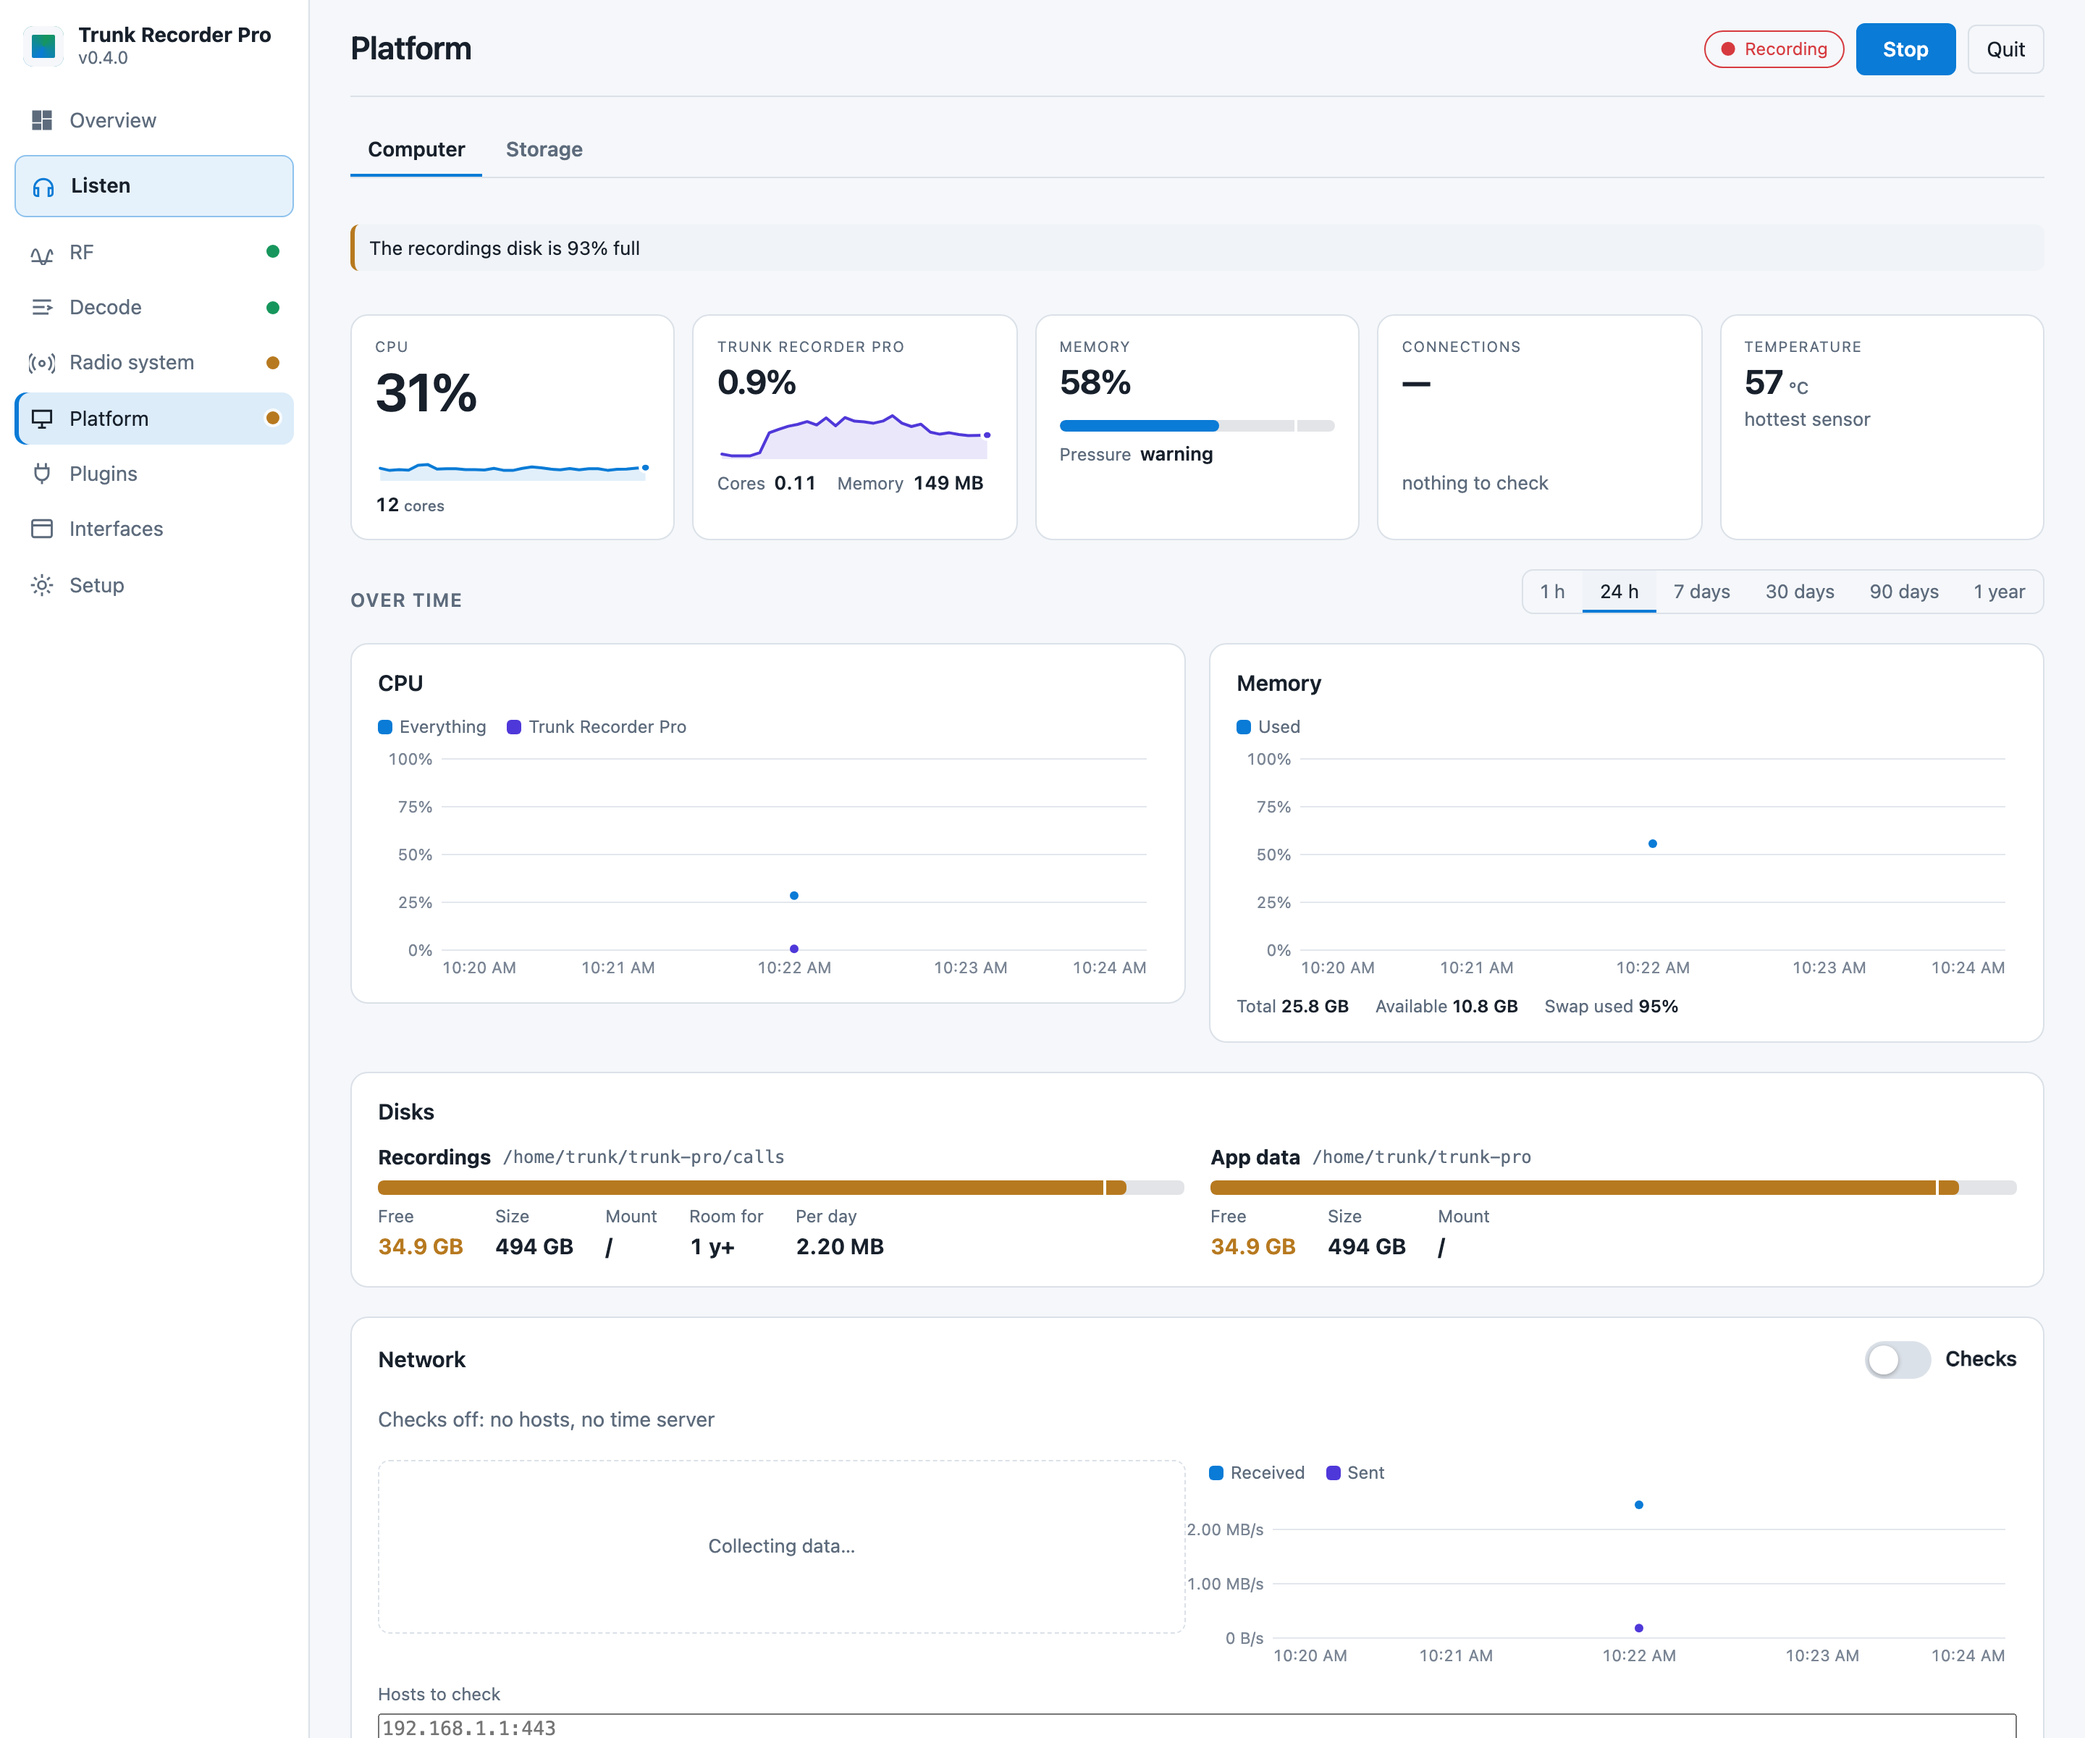
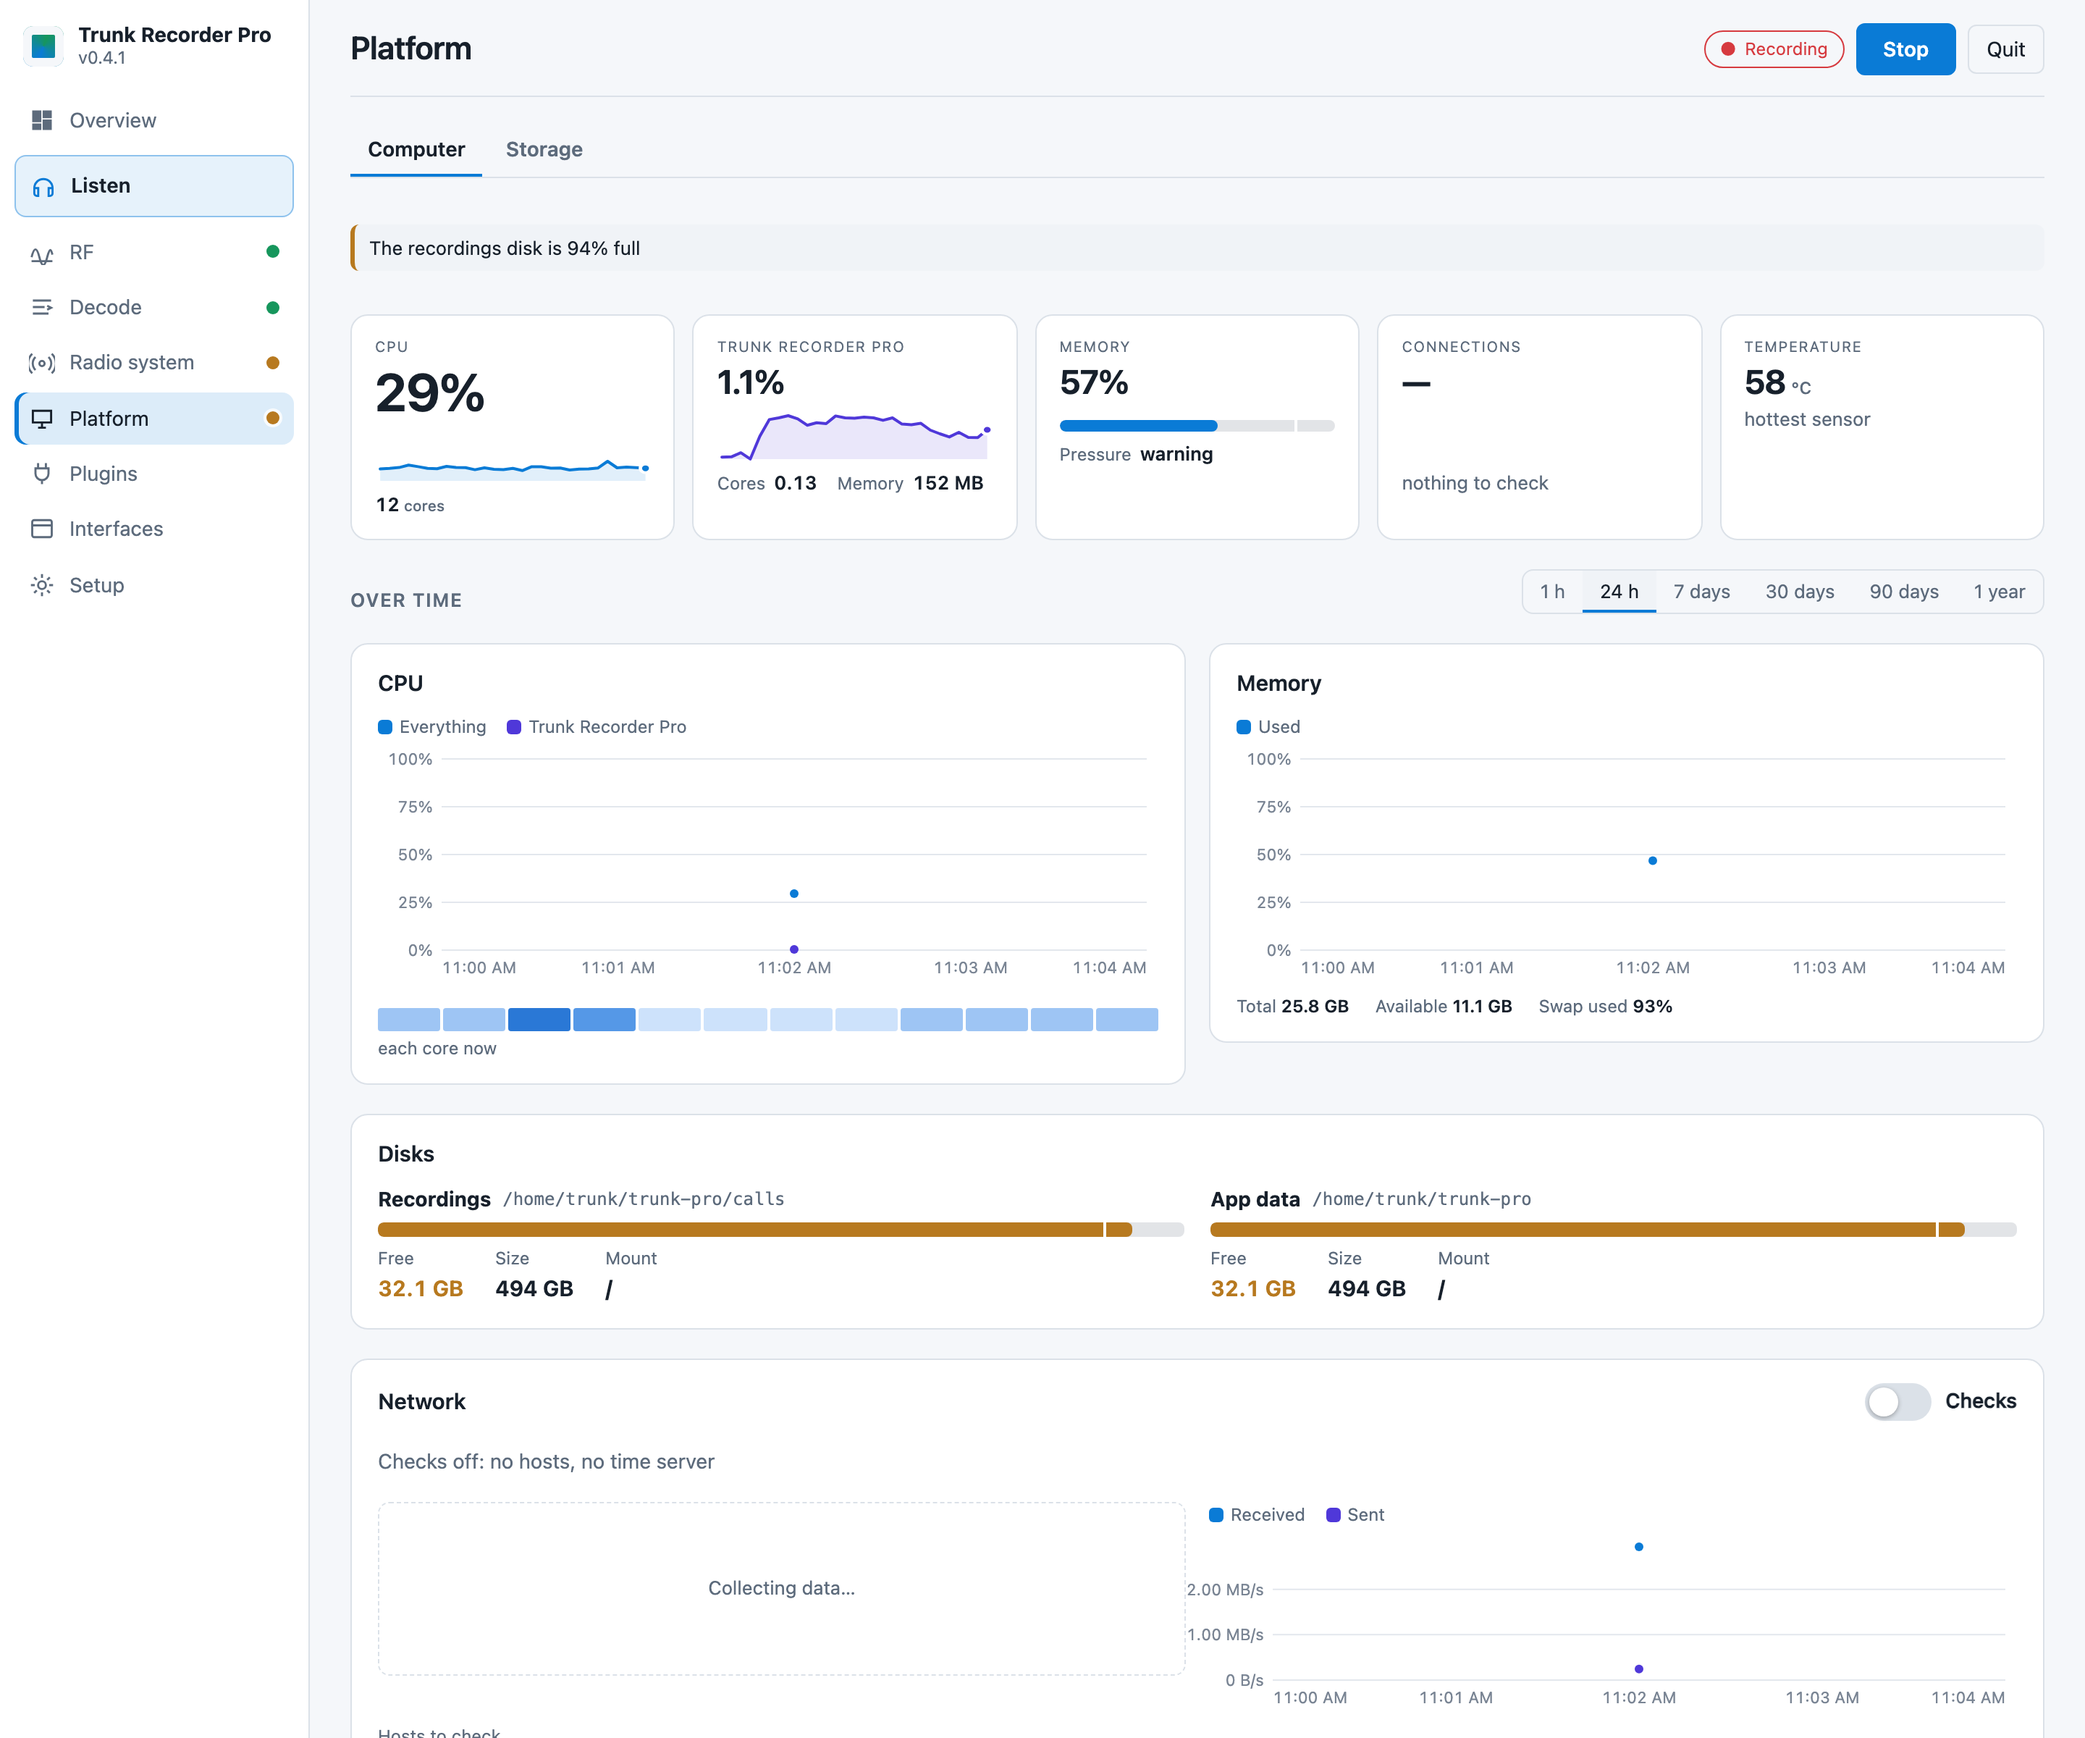
v0.4.1

diff --git a/CHANGELOG.md b/CHANGELOG.md
@@ -5,6 +5,8 @@ under `## [<version>]` when the tag `v<version>` is pushed).
 
 ## [Unreleased]
 
+## [0.4.1] — 2026-11-22
+
 - **The recordings folder is checked, and a failure to write says why.** At startup and whenever the folder changes in
   Setup, the recorder writes a file of its own there and deletes it. After that, every call's files go through the same
   path, so a folder that stops taking them partway through a run (a drive unplugged, a share gone, a disk full) is
@@ -15,6 +17,26 @@ under `## [<version>]` when the tag `v<version>` is pushed).
   saved, the event feed has it, and Setup → Recording shows **Writable** or **Can't write** under the folder (Onboarding
   too). A folder that vanished isn't made again on the disk beneath it, so a drive that's gone doesn't quietly fill the
   system disk. A call the RAM spool can't take goes to the recordings folder instead of being lost.
+- **The gain tuner tells close calls apart by SNR.** Where a control channel already decodes in full at every gain, the
+  tuner can't score one gain over another by decoding. It now picks the gain that lifts that control channel's SNR by more
+  than 2 dB (and clearly more than the measurement's spread), since that margin is what a fade takes. When a tuning finds
+  nothing better than the gain the radio has, the "Gain too low" warning goes away and the RF page says **Best as it is**.
+  Changing the radio in Setup brings the warning back. The warning now quotes the minute's average peak, which is what it
+  decides on.
+- **Setup → Access is its own tab.** Signing in guards the whole recorder (dashboard, API, call audio, every interface
+  port), so it no longer sits under Recording.
+- **Channel CSV: a frequency under 10 000 is MHz** (#195), with or without a decimal point. Excel saves `147.000` as
+  `147`, which was read as 147 Hz.
+- **DMR: the rest channel is marked "rest" on Hytera XPT too.** The DMR panel marked it "rest" only on Capacity Plus;
+  XPT's free repeater read "control".
+- **The browser version no longer offers HackRF** as a kind of radio in Setup, since only the desktop app can open one.
+- **Docs reorganised and checked against the code.** Getting started and the guides explain how and why. The reference
+  lists every key, flag and message, and the developer pages cover the internals. Each topic has one page, and the
+  others link to it. Screenshots in the docs are taken from the app itself, in light and dark, and retaken at each
+  release.
+- For developers: `client.js` keeps `phase.restartNeeded`, and clears `status` and `sources` when a run starts.
+  `protocol.ts` defines `GET /api/session`'s answer (`ownPasskeys` included). `tool snr` accepts `--kinds` and
+  `--transmissions`. `tool corpus fetch` lays out each capture's folder as well as downloading it.
 
 ## [0.4.0] — 2026-11-21
 
